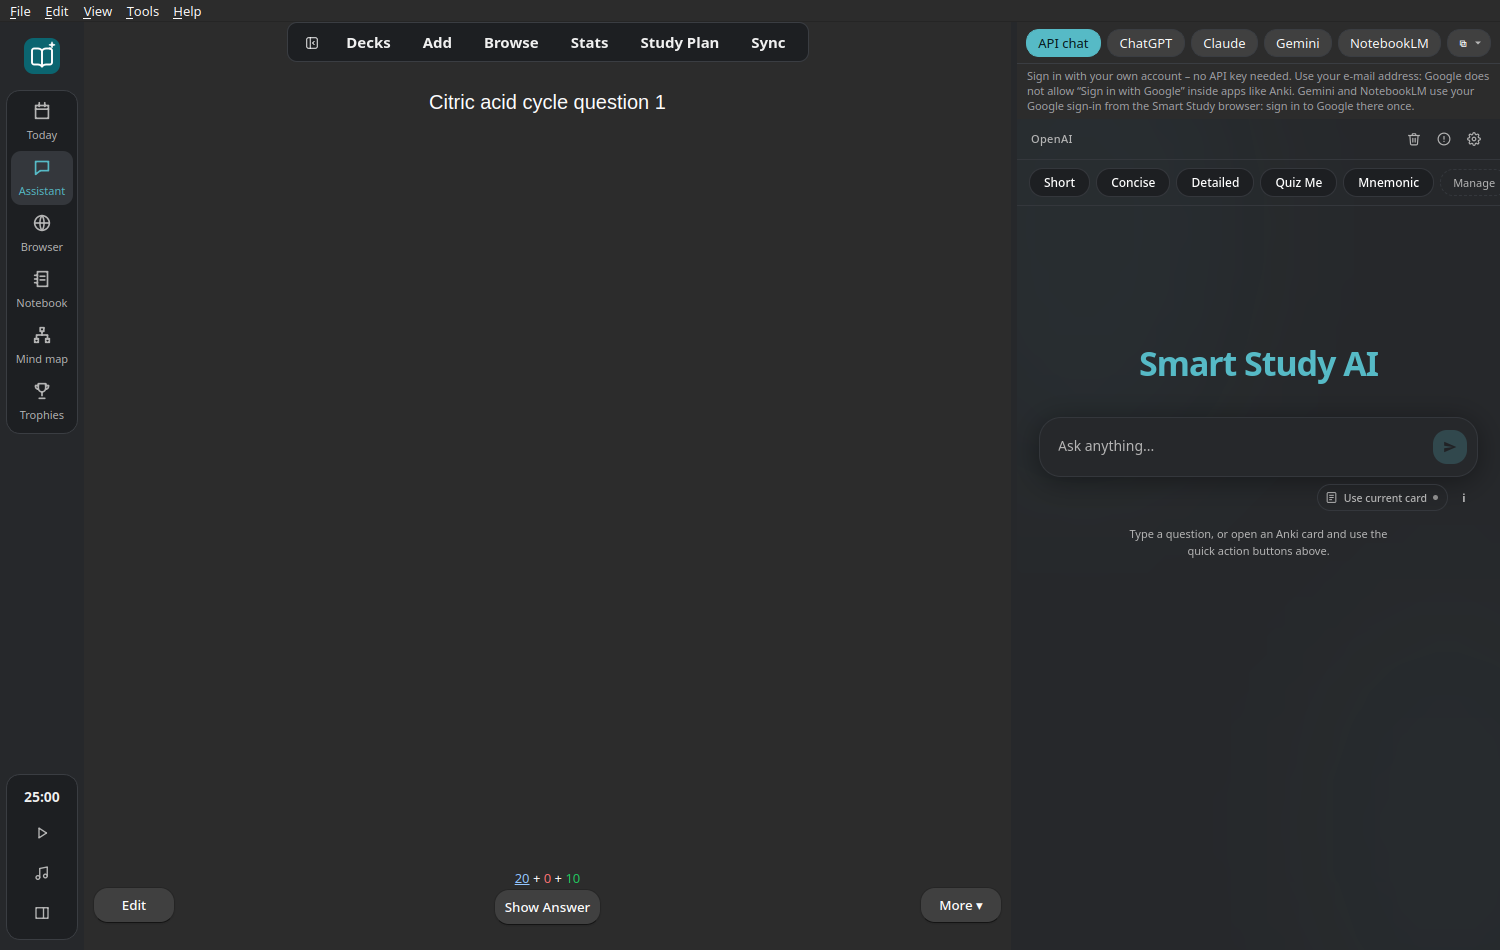
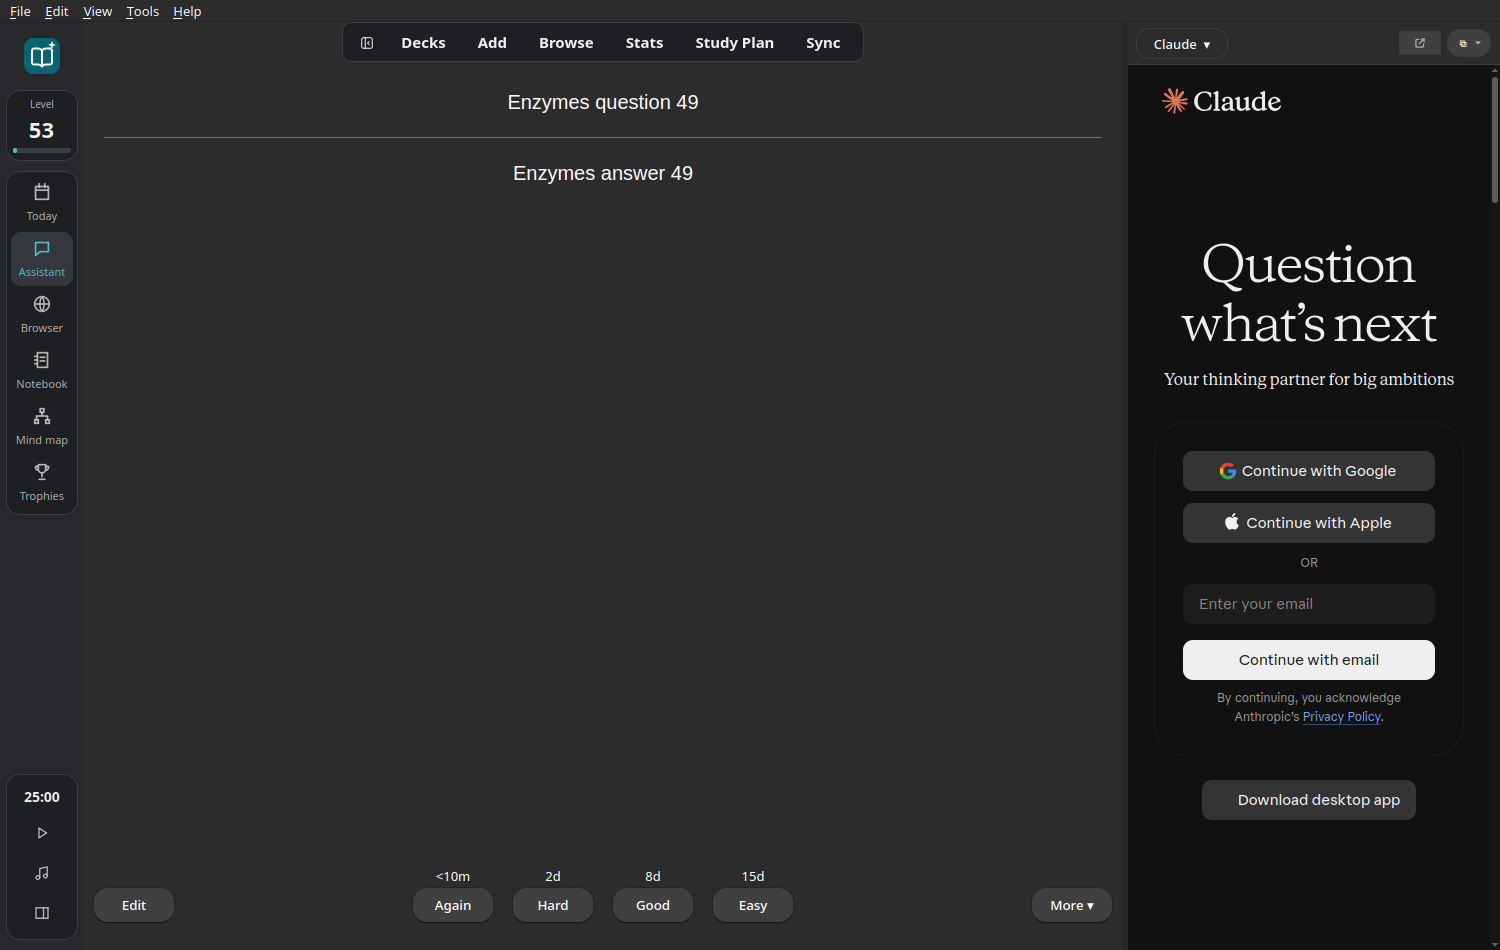
New screenshots in the current look, drop the old-layout images, README/AnkiWeb text without classic layout

diff --git a/docs/ankiweb-description.html b/docs/ankiweb-description.html
@@ -15,7 +15,7 @@
 <li><b>Anki stays Anki:</b> your deck list is where it always was. A slim rail on the left opens the tools; they appear in a panel on the right.</li>
 <li><b>Today:</b> the countdown to your exam, today's study plan items to tick off, the daily challenge and three charts (due, reviews, memory), each with its own period. It shows on the home screen only, not while you review.</li>
 <li><b>One calm look everywhere:</b> a neutral dark and light theme with round buttons, in Anki's own font. The older colour themes stay available.</li>
-<li><b>Settings</b> with tabs on top and a search. <i>Settings → Home → Layout → Classic</i> brings the earlier arrangement back.</li>
+<li><b>Settings</b> with tabs on top and a search.</li>
 </ul>
 
 <img src="https://raw.githubusercontent.com/TruckDrive/smart-study/main/screenshots/workspace-ai-assistant-3.0.png" width="720">
@@ -26,7 +26,6 @@
 <li><b>Anki itself in Persian:</b> a few broken lines in Anki's Persian file make it fall back to English. Smart Study repairs that. Text from inside Anki's backend stays English.</li>
 </ul>
 
-<img src="https://raw.githubusercontent.com/TruckDrive/smart-study/main/docs/description/persian.gif" width="720">
 
 <img src="https://raw.githubusercontent.com/TruckDrive/smart-study/main/screenshots/plan-3.0.png" width="720">
 
@@ -49,7 +48,6 @@
 <li>Website sidebar with tabs and tab groups, address bar, PDFs right in the tab, ad blocker (uBlock Origin's filter lists), SponsorBlock, focus mode and your choice of search engine; study-plan videos that resume and check themselves off; video control and picture in picture while you review; cards from text, images and videos on a page. XP, ranks, streaks, daily challenges, deadlines, color themes, eleven interface languages</li>
 </ul>
 
-<img src="https://raw.githubusercontent.com/TruckDrive/smart-study/main/screenshots/ai-accounts.png" width="720">
 
 <b>🧩 Built-in add-ons</b>
 <ul>

diff --git a/addon/changelog.py b/addon/changelog.py
@@ -17,6 +17,8 @@ CHANGELOG = [
             {"tag": "Fix", "text": "Study plan: the ⋯ menu also opens after you ticked an item or the page refreshed."},
             {"tag": "Fix", "text": "Pomodoro works right after switching it on in the settings, without restarting Anki."},
             {"tag": "Fix", "text": "Hiding Level and streak on the Today page updates the level on the rail at once."},
+            {"tag": "Fix", "text": "Settings: the Deck Overview, Side panel, Browser and Changelog tabs, the colour swatches and the logo were empty; they are back."},
+            {"tag": "Improved", "text": "The classic layout (widgets above the deck list, Minimalist Dashboard) is gone; the side panel is the only home. The settings of the old widgets are removed."},
         ],
     },
     {

diff --git a/README.md b/README.md
@@ -72,7 +72,7 @@ You tell Smart Study what you have to learn (book pages, videos, lists of tasks,
 - **Browser** with tabs, an address field that suggests visited pages, favourites with icons, PDF viewer (PDFs open right in the tab), ad blocker, saved passwords, and layouts: sidebar, split view, main window or its own window
 - **Motivation**: XP, ranks, streaks, daily challenges, celebrations
 - A **custom deck overview** with retention and hard cards, optional daily facts
-- **Its own look**: a calm neutral dark and light theme in Anki's own font, accent colours, the older colour themes and custom backgrounds, eleven interface languages. *Settings → Home → Layout → Classic* brings back the earlier arrangement with widgets above the deck list
+- **Its own look**: a calm neutral dark and light theme in Anki's own font, accent colours, the older colour themes and custom backgrounds, eleven interface languages.
 
 ### Built-in add-ons
 
@@ -87,9 +87,9 @@ Switch them on or off under *Tools → Smart Study → Settings → Add-ons* or 
 
 ![Review heatmap on the deck list](screenshots/heatmap.png)
 
-| AI assistant with your own ChatGPT/Claude/Gemini account | Controller that cannot be told apart |
-|---|---|
-| ![AI websites](screenshots/ai-accounts.png) | ![Which controller?](screenshots/controller-ask.png) |
+A controller that cannot be recognised reliably (many pads call themselves "Xbox 360 Controller") makes Smart Study ask once which one it is:
+
+![Which controller?](screenshots/controller-ask.png)
 
 **Good to know**
 - Google does not allow signing in inside apps such as Anki (“This browser or app may not be secure”). Sign in to ChatGPT and Claude with your e-mail address; Gemini and YouTube Music also work without signing in.

diff --git a/CHANGELOG.md b/CHANGELOG.md
@@ -1,5 +1,15 @@
 # Changelog
 
+## Unreleased (3.0.2)
+
+- **Accent colour everywhere**: the Today page, the study plan, the deck list, the Study Now button and the tool bars follow the colour chosen under *Settings → Appearance* (they stayed petrol before); also the browser's loading line, the chips on the trophies page, the link button in the notebook and the highlight tag in the news. Text on coloured buttons is dark or white, whichever reads better
+- **Icons**: the FreeMap tutorial entry, the assistant's *Open in browser* button and the *study* / *open* links of the study plan are drawn instead of using characters some systems cannot show
+- **Study plan**: the ⋯ menu also opens after you ticked an item or the page refreshed
+- **Pomodoro** works right after switching it on in the settings; hiding *Level and streak* updates the rail at once
+- **Settings**: the Deck Overview, Side panel, Browser and Changelog tabs, the colour swatches and the logo stayed empty because the settings page could not load its own script file; fixed
+- **Classic layout removed**: *Settings → Home → Layout* and the classic widgets above the deck list (Minimalist Dashboard, Advanced Statistics widget, Facts/Tasks widget, wide deck list switch) are gone. The side panel is the only home. The daily fact now has just its switch in *Home* and a topic choice
+- Screenshots in the README and on AnkiWeb show the current look; the old ones (classic layout, API chat, 2.1 What's new) are removed
+
 ## 3.0.1 – 2026-11-15
 
 - **Level always in sight**: a big level number with an XP bar sits at the top of the left rail, under the logo – also when the side panel is folded. A click opens the trophies
